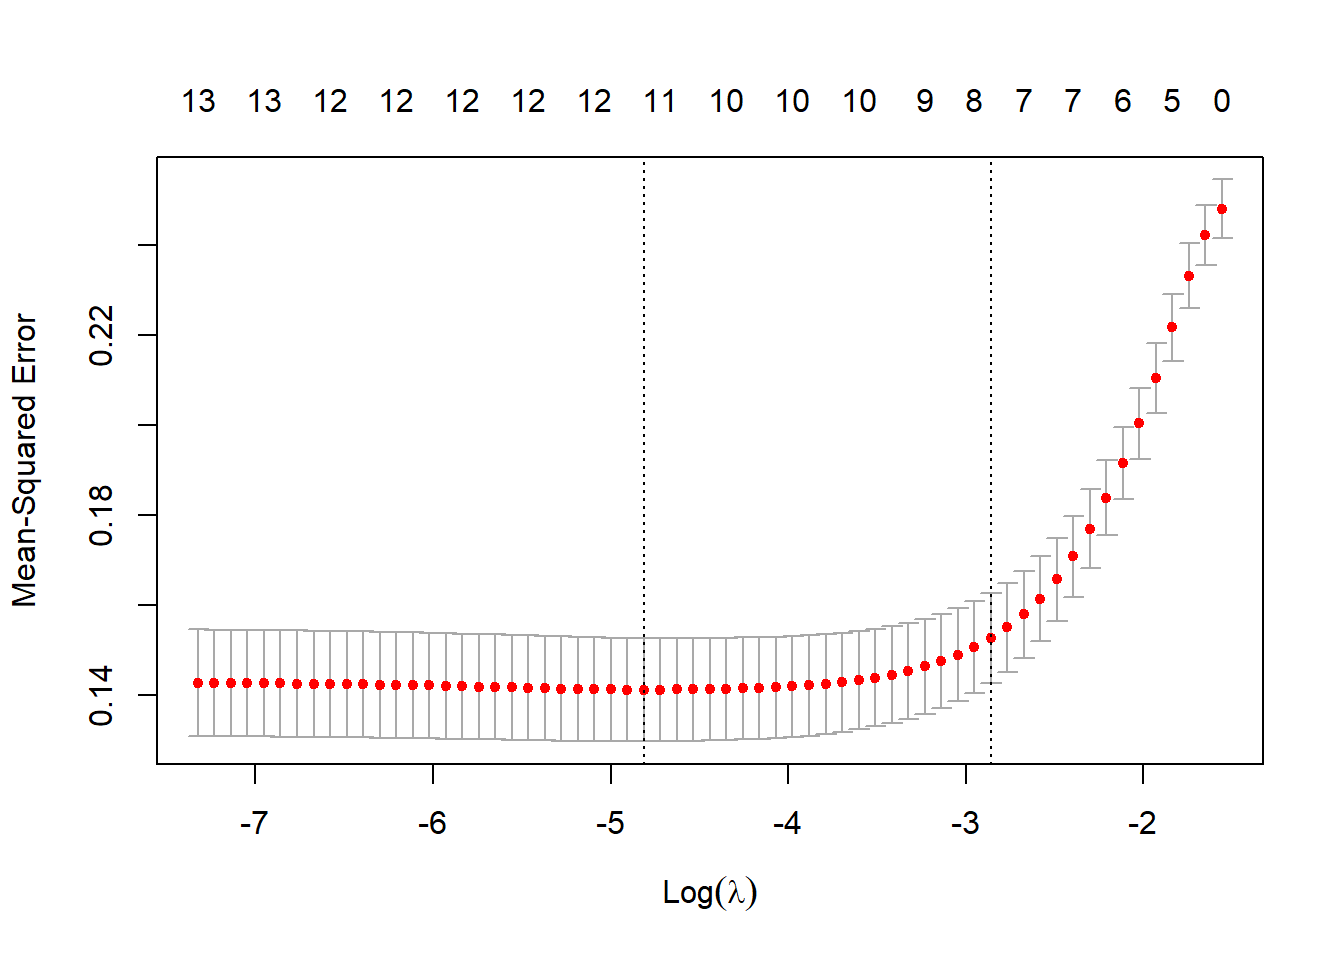
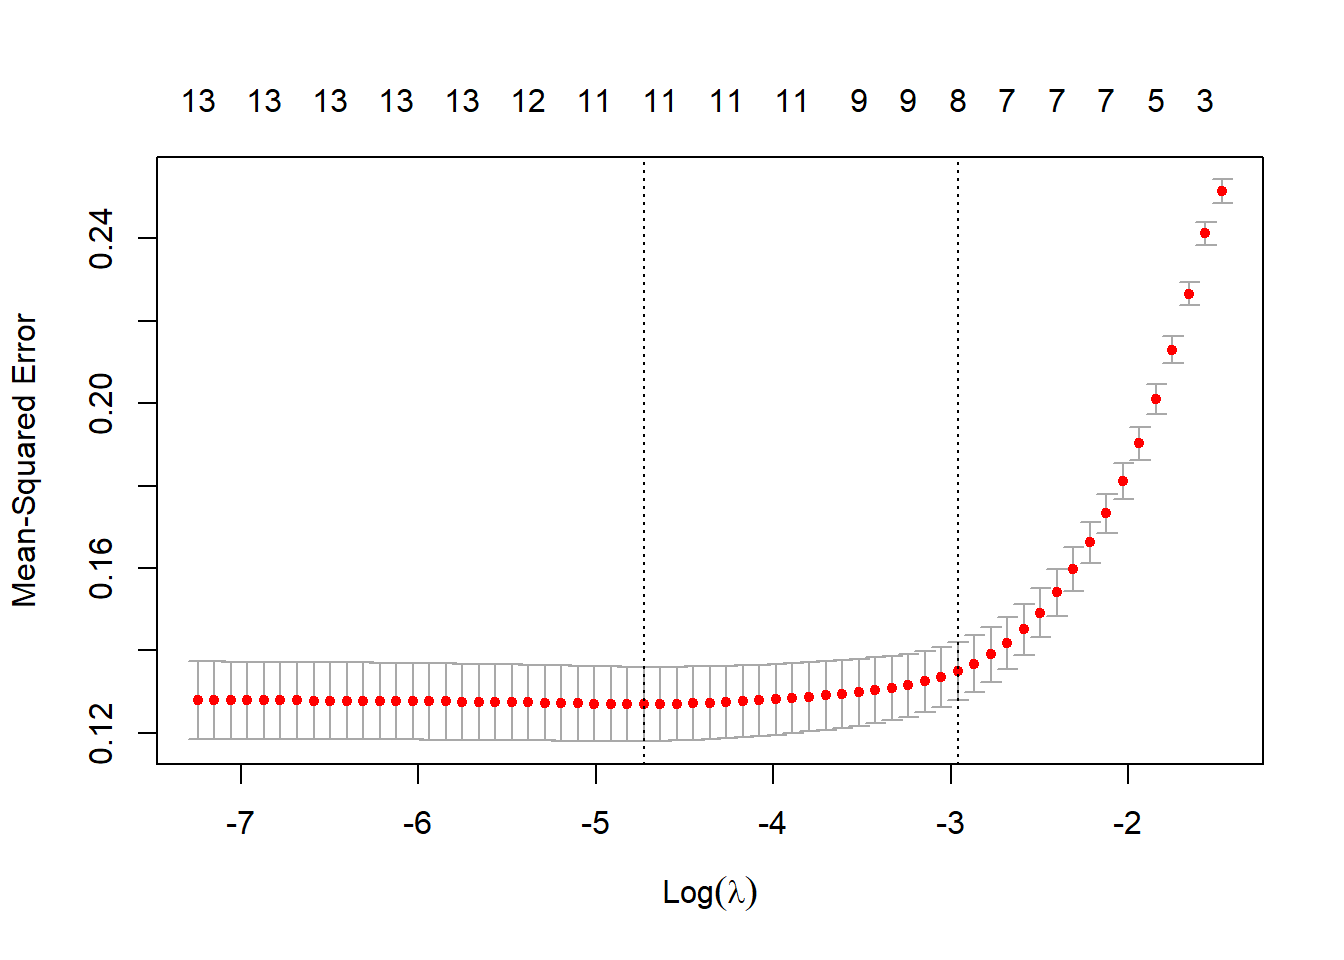
automated commit

diff --git a/public/2021/05/10/heart-attack-risk-analysis/index.html b/public/2021/05/10/heart-attack-risk-analysis/index.html
@@ -227,6 +227,7 @@ x &lt;- data.matrix(heart_train[, c(colnames(heart)[1:ncol(heart)-1])])</code></
 <div id="fitting-the-lasso-regression" class="section level2">
 <h2>Fitting the Lasso Regression</h2>
 <p>The reason for choosing this type of model is because non-multicollinearity (predictor variables correlate with each other) is an assumption of an Ordinary Least Squares (OLS) regression. The lasso regression attempts to tackle this problem. The lasso regression includes a shrinkage penalty (<span class="math inline">\(\lambda\)</span>) to drop certain weakly significant variables from the model.</p>
+<p><span class="math display">\[\sum\limits_{i = 1}^{N}(y_i - \hat{y} _i)^2 = \sum\limits_{i = 1}^{N}\left (y_i - \sum\limits_{j = 0}^{p}(w_j \times x_{i, j})\right)^2 + \lambda \sum\limits_{j = 0}^{p}\mid{w_j}\mid{}\]</span></p>
 <pre class="r"><code>library(glmnet)</code></pre>
 <pre><code>## Warning: package &#39;glmnet&#39; was built under R version 4.0.4</code></pre>
 <pre><code>## Loading required package: Matrix</code></pre>
@@ -241,7 +242,7 @@ x &lt;- data.matrix(heart_train[, c(colnames(heart)[1:ncol(heart)-1])])</code></
 best_lambda &lt;- heart_model$lambda.min
 
 best_lambda</code></pre>
-<pre><code>## [1] 0.008128132</code></pre>
+<pre><code>## [1] 0.008836644</code></pre>
 <div id="minimising-mse-for-an-appropriate-lambda-and-coefficient-matrix" class="section level3">
 <h3>Minimising MSE for an appropriate <span class="math inline">\(\lambda\)</span> and coefficient matrix</h3>
 <pre class="r"><code>plot(heart_model)</code></pre>
@@ -250,20 +251,20 @@ best_lambda</code></pre>
 coef(best_model)</code></pre>
 <pre><code>## 14 x 1 sparse Matrix of class &quot;dgCMatrix&quot;
 ##                        s0
-## (Intercept)  6.572810e-01
+## (Intercept)  0.7759009861
 ## age          .           
-## sex         -1.694499e-01
-## cp           9.905776e-02
-## trtbps      -1.626772e-03
-## chol        -2.186341e-06
-## fbs         -3.767239e-03
-## restecg      3.831429e-02
-## thalachh     3.174655e-03
-## exng        -1.692852e-01
-## oldpeak     -6.034406e-02
-## slp          4.891514e-02
-## caa         -1.008546e-01
-## thall       -1.055907e-01</code></pre>
+## sex         -0.1782239828
+## cp           0.0834324421
+## trtbps      -0.0014576596
+## chol        -0.0003439428
+## fbs          .           
+## restecg      0.0170450688
+## thalachh     0.0029970515
+## exng        -0.2046319643
+## oldpeak     -0.0554380635
+## slp          0.0494919941
+## caa         -0.1356793515
+## thall       -0.0981750395</code></pre>
 <p>The fbs (fasting blood sugar) coefficient has been reduced to zero because of the nature of the Lasso regression model used. The Lasso regression is often implemented when there are lots of features and over-fitting a model may become a problem in producing an accurate model. Coefficients tending to zero are dropped from the model completely. There may be greater or fewer coefficients dropped depending on the sampling of the training dataset.</p>
 </div>
 </div>
@@ -282,8 +283,8 @@ sse &lt;- sum((predictions - heart_test_y)^2) # sum of squares error
 rsq &lt;- 1 - sse/sst # r-squared
 
 rsq</code></pre>
-<pre><code>## [1] 0.804014</code></pre>
-<p>The R-squared turns out to be 0.804. That is, the best model was able to explain 80.4% of the variation in the response values of the training data.</p>
+<pre><code>## [1] 0.7441731</code></pre>
+<p>The R-squared turns out to be 0.7442. That is, the best model was able to explain 74.42% of the variation in the response values of the training data.</p>
 </div>
 <div id="confusion-matrix-how-correct-was-our-model" class="section level2">
 <h2>Confusion matrix (how correct was our model?)</h2>
@@ -296,9 +297,9 @@ confusion_matrix &lt;- full_results %&gt;%
 <pre class="r"><code>(cf &lt;- confusion_matrix %&gt;% 
   count(correct_prediction))</code></pre>
 <pre><code>##   correct_prediction  n
-## 1            CORRECT 78
-## 2          INCORRECT 13</code></pre>
-<p>The lasso regression is correct for 85.71% of the testing observations.</p>
+## 1            CORRECT 69
+## 2          INCORRECT 22</code></pre>
+<p>The lasso regression is correct for 75.82% of the testing observations.</p>
 </div>
 </div>
 

diff --git a/content/post/2021-05-10-heart-attack-risk-analysis/index.html b/content/post/2021-05-10-heart-attack-risk-analysis/index.html
@@ -161,6 +161,7 @@ x &lt;- data.matrix(heart_train[, c(colnames(heart)[1:ncol(heart)-1])])</code></
 <div id="fitting-the-lasso-regression" class="section level2">
 <h2>Fitting the Lasso Regression</h2>
 <p>The reason for choosing this type of model is because non-multicollinearity (predictor variables correlate with each other) is an assumption of an Ordinary Least Squares (OLS) regression. The lasso regression attempts to tackle this problem. The lasso regression includes a shrinkage penalty (<span class="math inline">\(\lambda\)</span>) to drop certain weakly significant variables from the model.</p>
+<p><span class="math display">\[\sum\limits_{i = 1}^{N}(y_i - \hat{y} _i)^2 = \sum\limits_{i = 1}^{N}\left (y_i - \sum\limits_{j = 0}^{p}(w_j \times x_{i, j})\right)^2 + \lambda \sum\limits_{j = 0}^{p}\mid{w_j}\mid{}\]</span></p>
 <pre class="r"><code>library(glmnet)</code></pre>
 <pre><code>## Warning: package &#39;glmnet&#39; was built under R version 4.0.4</code></pre>
 <pre><code>## Loading required package: Matrix</code></pre>
@@ -175,7 +176,7 @@ x &lt;- data.matrix(heart_train[, c(colnames(heart)[1:ncol(heart)-1])])</code></
 best_lambda &lt;- heart_model$lambda.min
 
 best_lambda</code></pre>
-<pre><code>## [1] 0.008128132</code></pre>
+<pre><code>## [1] 0.008836644</code></pre>
 <div id="minimising-mse-for-an-appropriate-lambda-and-coefficient-matrix" class="section level3">
 <h3>Minimising MSE for an appropriate <span class="math inline">\(\lambda\)</span> and coefficient matrix</h3>
 <pre class="r"><code>plot(heart_model)</code></pre>
@@ -184,20 +185,20 @@ best_lambda</code></pre>
 coef(best_model)</code></pre>
 <pre><code>## 14 x 1 sparse Matrix of class &quot;dgCMatrix&quot;
 ##                        s0
-## (Intercept)  6.572810e-01
+## (Intercept)  0.7759009861
 ## age          .           
-## sex         -1.694499e-01
-## cp           9.905776e-02
-## trtbps      -1.626772e-03
-## chol        -2.186341e-06
-## fbs         -3.767239e-03
-## restecg      3.831429e-02
-## thalachh     3.174655e-03
-## exng        -1.692852e-01
-## oldpeak     -6.034406e-02
-## slp          4.891514e-02
-## caa         -1.008546e-01
-## thall       -1.055907e-01</code></pre>
+## sex         -0.1782239828
+## cp           0.0834324421
+## trtbps      -0.0014576596
+## chol        -0.0003439428
+## fbs          .           
+## restecg      0.0170450688
+## thalachh     0.0029970515
+## exng        -0.2046319643
+## oldpeak     -0.0554380635
+## slp          0.0494919941
+## caa         -0.1356793515
+## thall       -0.0981750395</code></pre>
 <p>The fbs (fasting blood sugar) coefficient has been reduced to zero because of the nature of the Lasso regression model used. The Lasso regression is often implemented when there are lots of features and over-fitting a model may become a problem in producing an accurate model. Coefficients tending to zero are dropped from the model completely. There may be greater or fewer coefficients dropped depending on the sampling of the training dataset.</p>
 </div>
 </div>
@@ -216,8 +217,8 @@ sse &lt;- sum((predictions - heart_test_y)^2) # sum of squares error
 rsq &lt;- 1 - sse/sst # r-squared
 
 rsq</code></pre>
-<pre><code>## [1] 0.804014</code></pre>
-<p>The R-squared turns out to be 0.804. That is, the best model was able to explain 80.4% of the variation in the response values of the training data.</p>
+<pre><code>## [1] 0.7441731</code></pre>
+<p>The R-squared turns out to be 0.7442. That is, the best model was able to explain 74.42% of the variation in the response values of the training data.</p>
 </div>
 <div id="confusion-matrix-how-correct-was-our-model" class="section level2">
 <h2>Confusion matrix (how correct was our model?)</h2>
@@ -230,8 +231,8 @@ confusion_matrix &lt;- full_results %&gt;%
 <pre class="r"><code>(cf &lt;- confusion_matrix %&gt;% 
   count(correct_prediction))</code></pre>
 <pre><code>##   correct_prediction  n
-## 1            CORRECT 78
-## 2          INCORRECT 13</code></pre>
-<p>The lasso regression is correct for 85.71% of the testing observations.</p>
+## 1            CORRECT 69
+## 2          INCORRECT 22</code></pre>
+<p>The lasso regression is correct for 75.82% of the testing observations.</p>
 </div>
 </div>
